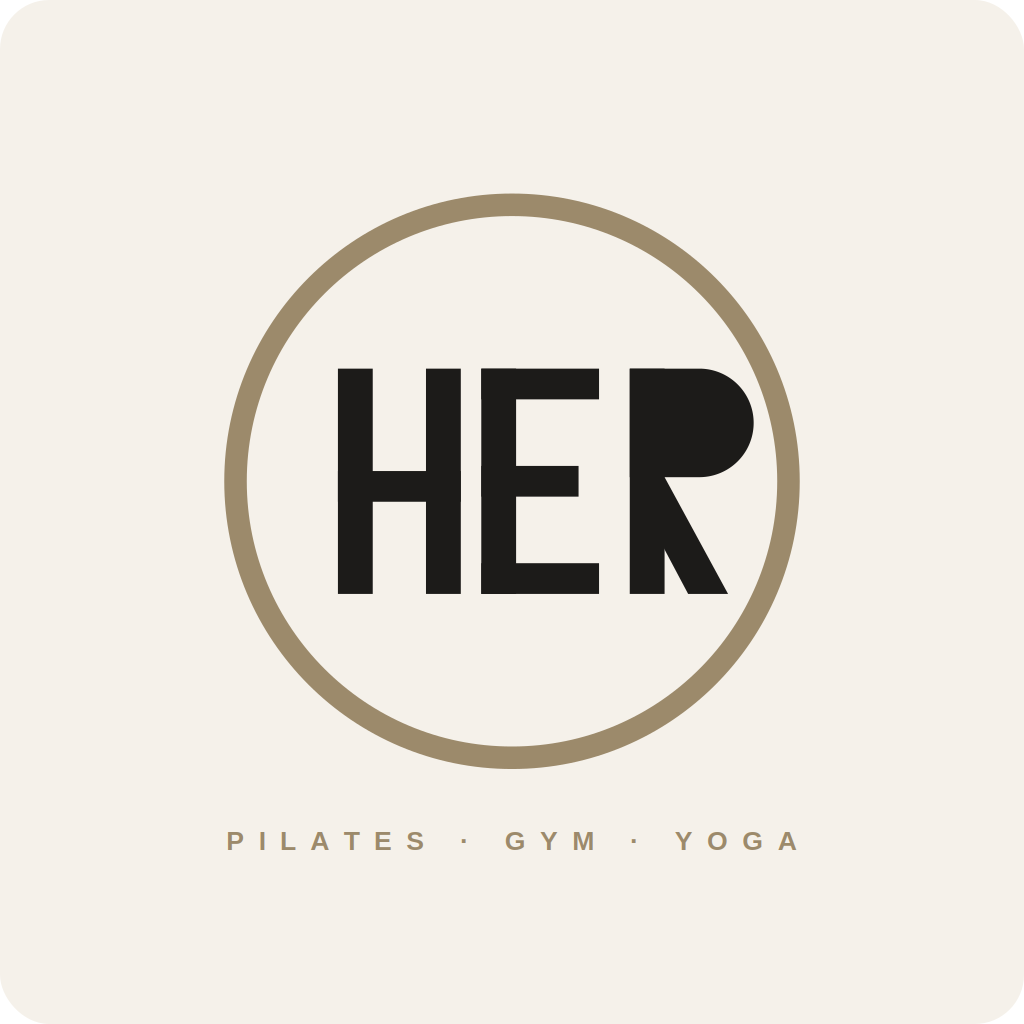
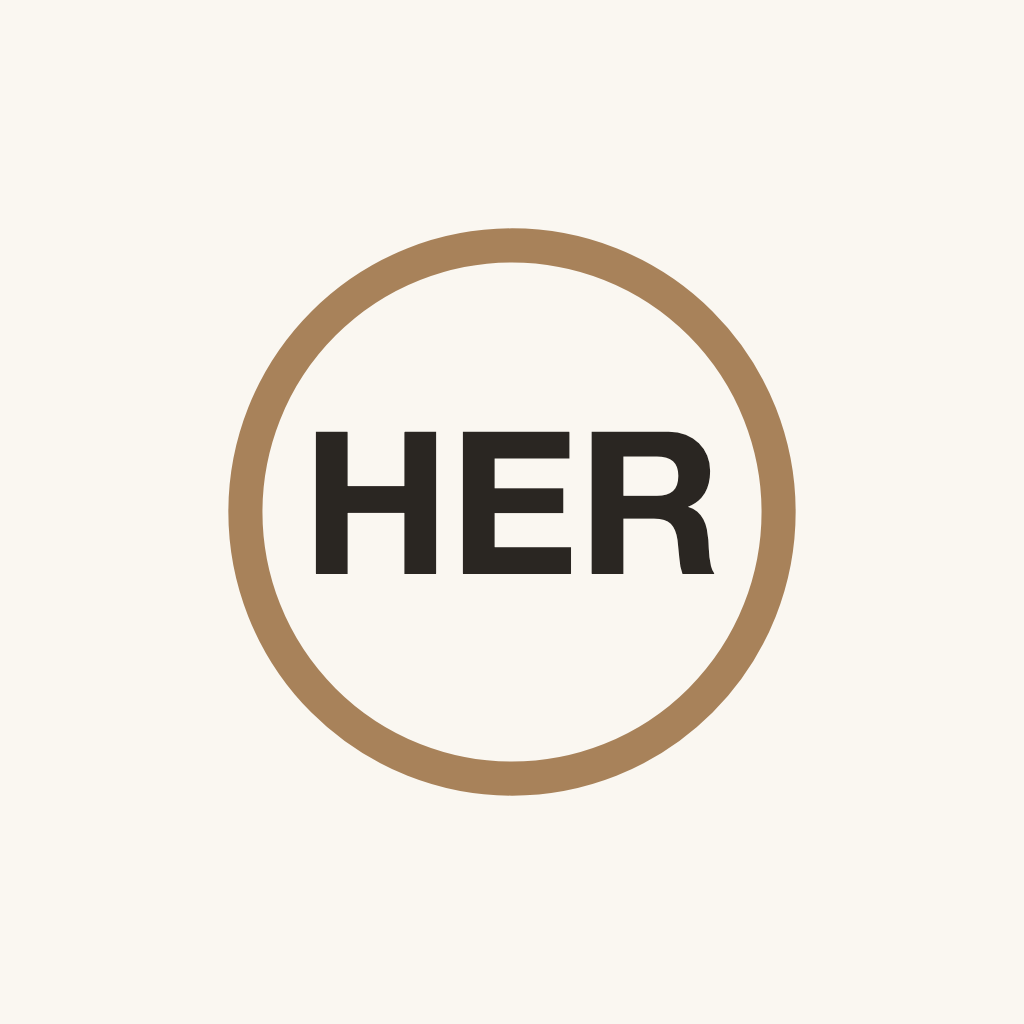
Add Expo Updates and fix Android safe area padding
- Add expo-updates dependency and EAS configuration for over-the-air update support
- Fix bottom sheet and modal UI elements being covered by Android navigation bar by adding safe area insets padding
- Update app assets (icons, splash, logos)
- FormSheet, CustomerPackagesModal, and ProfileScreen now respect bottom insets on Android edge-to-edge layouts

diff --git a/mobile/src/screens/CustomerPackagesModal.js b/mobile/src/screens/CustomerPackagesModal.js
@@ -1,5 +1,6 @@
 import { useState, useEffect, useCallback, useRef } from "react";
 import { Modal, View, Text, ScrollView, TextInput, TouchableOpacity, StyleSheet } from "react-native";
+import { useSafeAreaInsets } from "react-native-safe-area-context";
 import { Feather } from "@expo/vector-icons";
 import TopBar from "../components/TopBar";
 import AppButton from "../components/AppButton";
@@ -41,6 +42,7 @@ const EMPTY_FORM = {
 // ghi nhận thanh toán/nợ (Q10) và bảo lưu/mở bảo lưu (Q11)
 export default function CustomerPackagesModal({ customer, onClose }) {
   const { c } = useTheme();
+  const insets = useSafeAreaInsets();
   const [packages, setPackages] = useState([]);
   const [loading, setLoading] = useState(true);
   const [errorMsg, setErrorMsg] = useState("");
@@ -205,7 +207,8 @@ export default function CustomerPackagesModal({ customer, onClose }) {
 
   return (
     <Modal visible animationType="slide" onRequestClose={onClose}>
-      <View style={{ flex: 1, backgroundColor: c.bg }}>
+      {/* Modal toàn màn nằm ngoài SafeAreaView → tự đệm đáy cho thanh điều hướng Android */}
+      <View style={{ flex: 1, backgroundColor: c.bg, paddingBottom: insets.bottom }}>
         <TopBar title={`Gói tập — ${customer.name}`} sub={customer.phone} onBack={onClose} />
 
         {!!errorMsg && <Text style={[styles.error, { color: c.danger }]}>{errorMsg}</Text>}
@@ -259,7 +262,7 @@ export default function CustomerPackagesModal({ customer, onClose }) {
         {/* Nút nổi mở form bán gói — cùng kiểu pill trắng của bản thiết kế */}
         <TouchableOpacity
           activeOpacity={0.85}
-          style={[styles.fab, { backgroundColor: c.card }]}
+          style={[styles.fab, { backgroundColor: c.card, bottom: 34 + insets.bottom }]}
           onPress={() => {
             setSheetError("");
             setSheetOpen(true);
@@ -447,7 +450,7 @@ export default function CustomerPackagesModal({ customer, onClose }) {
         </FormSheet>
 
         {!!toast && (
-          <View style={[styles.toast, { backgroundColor: toast.isError ? c.danger : c.accent }]}>
+          <View style={[styles.toast, { backgroundColor: toast.isError ? c.danger : c.accent, bottom: 80 + insets.bottom }]}>
             <Feather name={toast.isError ? "alert-circle" : "check"} size={14} color="#fff" />
             <Text style={styles.toastText}>{toast.msg}</Text>
           </View>

diff --git a/mobile/src/screens/ProfileScreen.js b/mobile/src/screens/ProfileScreen.js
@@ -1,5 +1,6 @@
 import { useState, useEffect, useCallback } from "react";
 import { View, Text, TextInput, TouchableOpacity, ScrollView, StyleSheet, Modal } from "react-native";
+import { useSafeAreaInsets } from "react-native-safe-area-context";
 import { useFocusEffect } from "@react-navigation/native";
 import { Feather } from "@expo/vector-icons";
 import TopBar from "../components/TopBar";
@@ -24,6 +25,7 @@ function fmtShortDate(d) {
 export default function ProfileScreen() {
   const { user, logout, refreshMe } = useAuth();
   const { c } = useTheme();
+  const insets = useSafeAreaInsets();
   const [name, setName] = useState(user?.name || "");
   const [saving, setSaving] = useState(false);
   const [message, setMessage] = useState("");
@@ -316,14 +318,15 @@ export default function ProfileScreen() {
         </AppButton>
       </FormSheet>
 
+      {/* Modal toàn màn nằm ngoài SafeAreaView → tự đệm đáy cho thanh điều hướng Android */}
       <Modal visible={settingsOpen} animationType="slide" onRequestClose={() => setSettingsOpen(false)}>
-        <View style={{ flex: 1, backgroundColor: c.bg }}>
+        <View style={{ flex: 1, backgroundColor: c.bg, paddingBottom: insets.bottom }}>
           <SettingsScreen onBack={() => setSettingsOpen(false)} />
         </View>
       </Modal>
 
       <Modal visible={autoOpen} animationType="slide" onRequestClose={() => setAutoOpen(false)}>
-        <View style={{ flex: 1, backgroundColor: c.bg }}>
+        <View style={{ flex: 1, backgroundColor: c.bg, paddingBottom: insets.bottom }}>
           <AutoScheduleScreen onBack={() => setAutoOpen(false)} />
         </View>
       </Modal>

diff --git a/mobile/src/components/FormSheet.js b/mobile/src/components/FormSheet.js
@@ -2,15 +2,19 @@
 // (DateTimeField khởi tạo state từ value lúc mount). Nếu đổi FormSheet sang View/Animated
 // không unmount, phải thêm key cho children để state không dính giữa 2 lần mở.
 import { Modal, View, Text, Pressable, ScrollView, StyleSheet } from "react-native";
+import { useSafeAreaInsets } from "react-native-safe-area-context";
 import { useTheme } from "../theme";
 
 // Bottom sheet chứa form tạo mới — thay cho form nằm đè trên danh sách.
 export default function FormSheet({ visible, title, onClose, children }) {
   const { c } = useTheme();
+  // Android edge-to-edge: sheet nằm sát đáy nên phải đệm thêm chiều cao thanh điều hướng 3 nút,
+  // không thì nút cuối sheet bị thanh này che (phát hiện khi test bản Play 25/08)
+  const insets = useSafeAreaInsets();
   return (
     <Modal visible={visible} transparent animationType="slide" onRequestClose={onClose}>
       <Pressable style={[styles.backdrop, { backgroundColor: c.overlay }]} onPress={onClose} />
-      <View style={[styles.sheet, { backgroundColor: c.card }]}>
+      <View style={[styles.sheet, { backgroundColor: c.card, paddingBottom: 26 + insets.bottom }]}>
         <View style={[styles.grabber, { backgroundColor: c.line }]} />
         {!!title && <Text style={[styles.title, { color: c.ink }]}>{title}</Text>}
         <ScrollView keyboardShouldPersistTaps="handled">{children}</ScrollView>
